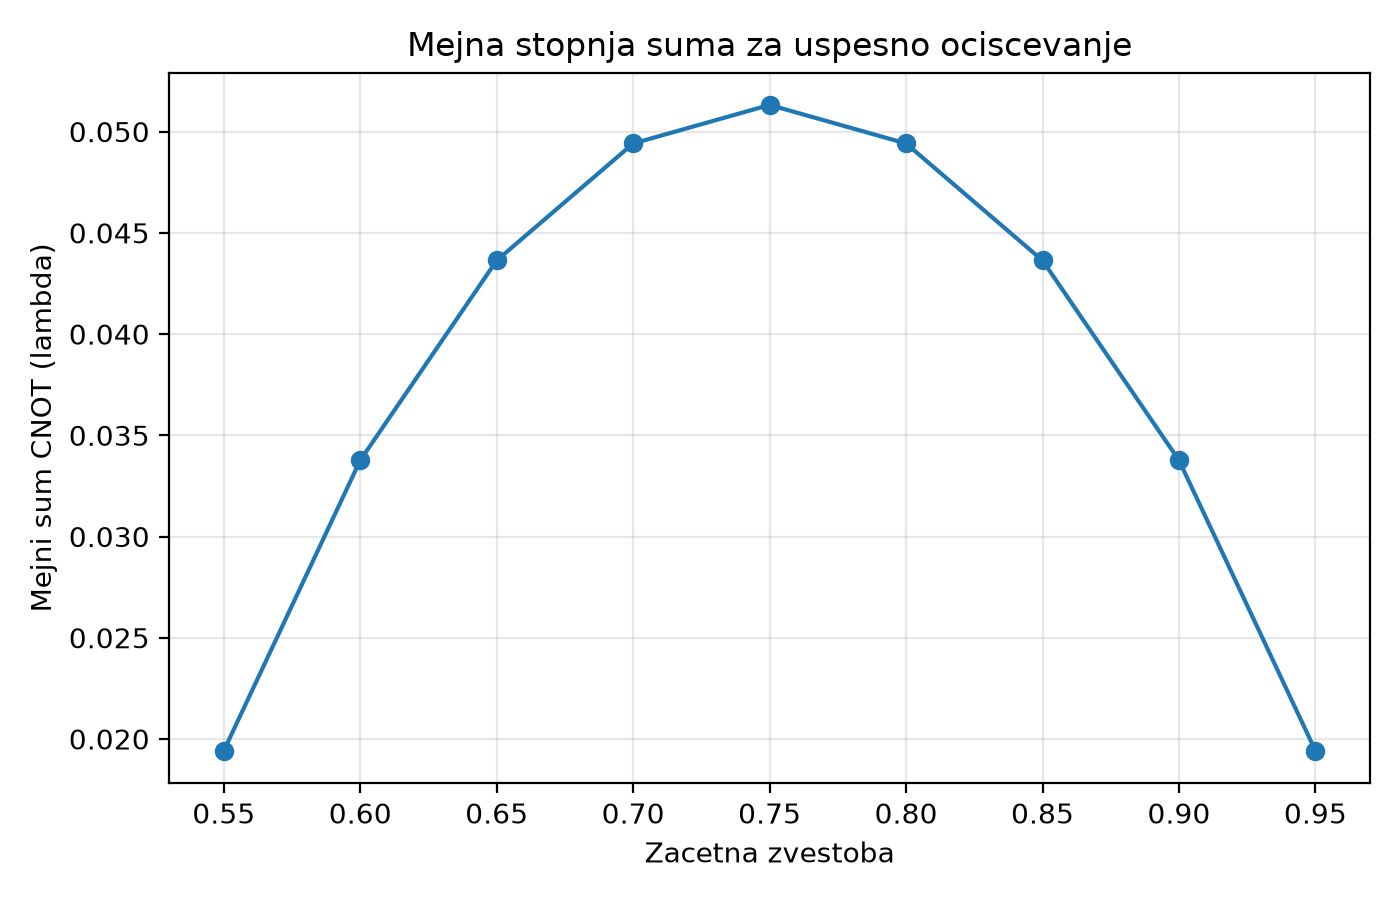
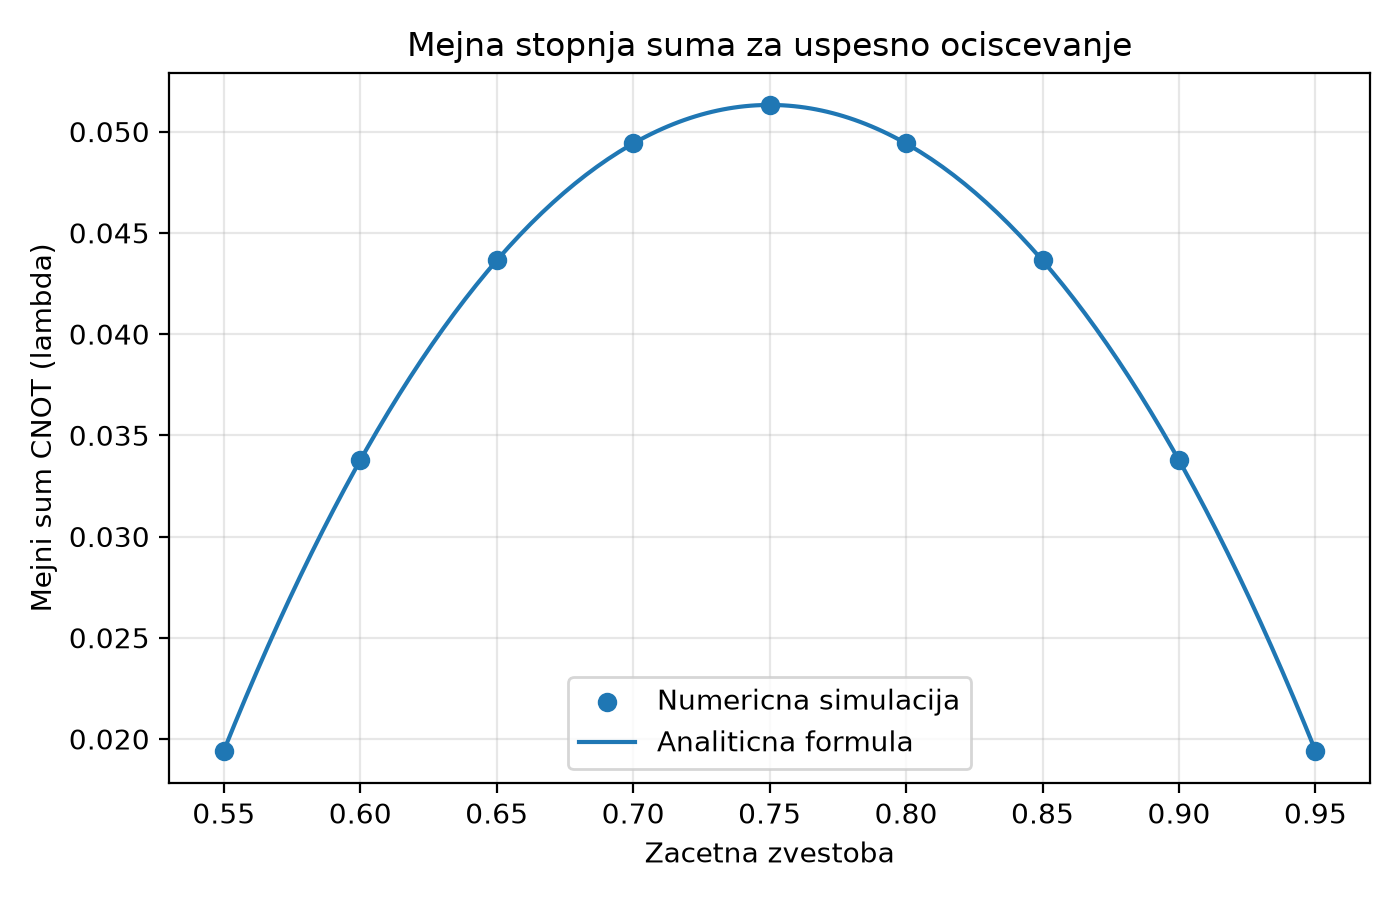
Preveril pragove z analiticno formulo

diff --git a/code/grafi.py b/code/grafi.py
@@ -1,6 +1,7 @@
 import pandas as pd
 import matplotlib.pyplot as plt
 from pathlib import Path
+import numpy as np
 
 pot = Path(__file__).resolve().parent.parent
 podatki = pd.read_csv(pot / "results" / "poskusi.csv")
@@ -55,11 +56,18 @@ pragi = pd.read_csv(pot / "results" / "pragi.csv")
 
 plt.figure(figsize=(7, 4.5))
 
-plt.plot(pragi["f_vhod"], pragi["prag_suma"], marker="o")
+plt.scatter(pragi["f_vhod"], pragi["prag_suma"],
+            label="Numericna simulacija", zorder=3)
+
+f_vrednosti = np.linspace(0.55, 0.95, 200)
+pragi_teorija = 1 - 3 / np.sqrt(10 - 16 * (f_vrednosti - 0.75)**2)
+
+plt.plot(f_vrednosti, pragi_teorija, label="Analiticna formula")
 
 plt.xlabel("Zacetna zvestoba")
 plt.ylabel("Mejni sum CNOT (lambda)")
 plt.title("Mejna stopnja suma za uspesno ociscevanje")
+plt.legend()
 plt.grid(alpha=0.3)
 plt.tight_layout()
 

diff --git a/code/pragi.py b/code/pragi.py
@@ -1,6 +1,7 @@
 import csv
 from pathlib import Path
 from bbpssw import ocisti
+from math import sqrt
 
 zvestobe = [0.55, 0.60, 0.65, 0.70, 0.75, 0.80, 0.85, 0.90, 0.95]
 
@@ -22,14 +23,18 @@ for f in zvestobe:
     prag = (spodnja + zgornja) / 2
     f_izhod, uspeh = ocisti(f, prag)
 
+    prag_teorija = 1 - 3 / sqrt(10 - 16 * (f - 0.75)**2)
+    assert abs(prag - prag_teorija) < 1e-6
+
     rezultati.append({
         "f_vhod": f,
         "prag_suma": prag,
         "p_uspeha": uspeh,
-        "parov_na_izhod": 2 / uspeh
+        "parov_na_izhod": 2 / uspeh,
+        "prag_teorija": prag_teorija
     })
 
-    print(f"F = {f:.2f}, prag = {prag:.6f}")
+    print(f"F = {f:.2f}, numerično = {prag:.6f}, teorija = {prag_teorija:.6f}")
 
 pot = Path(__file__).resolve().parent.parent / "results"
 
